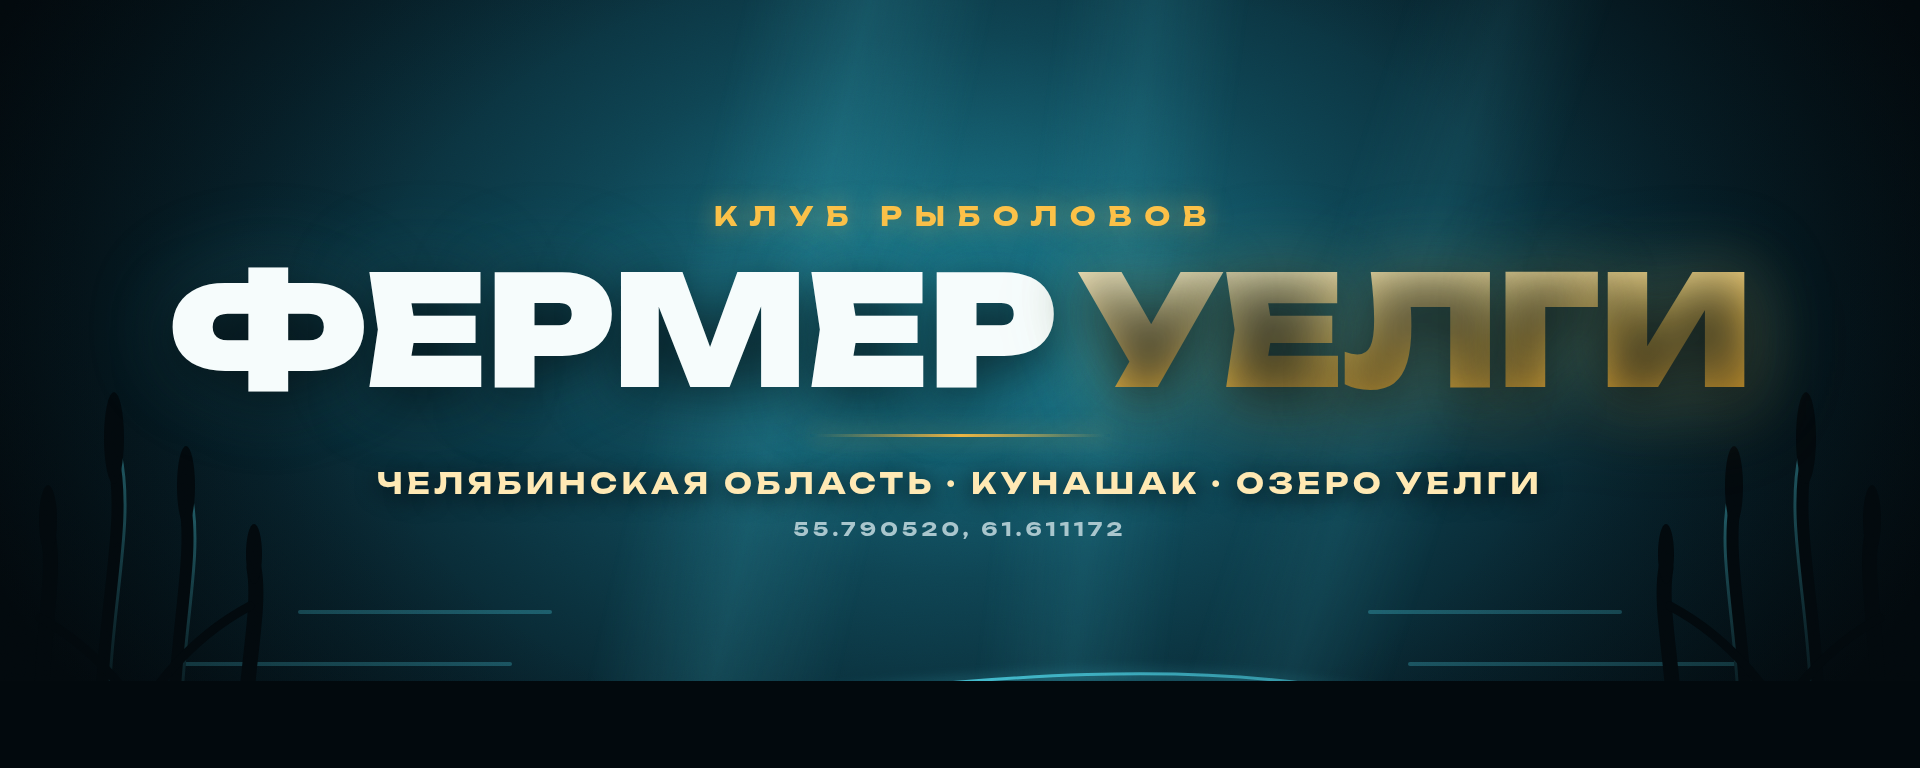
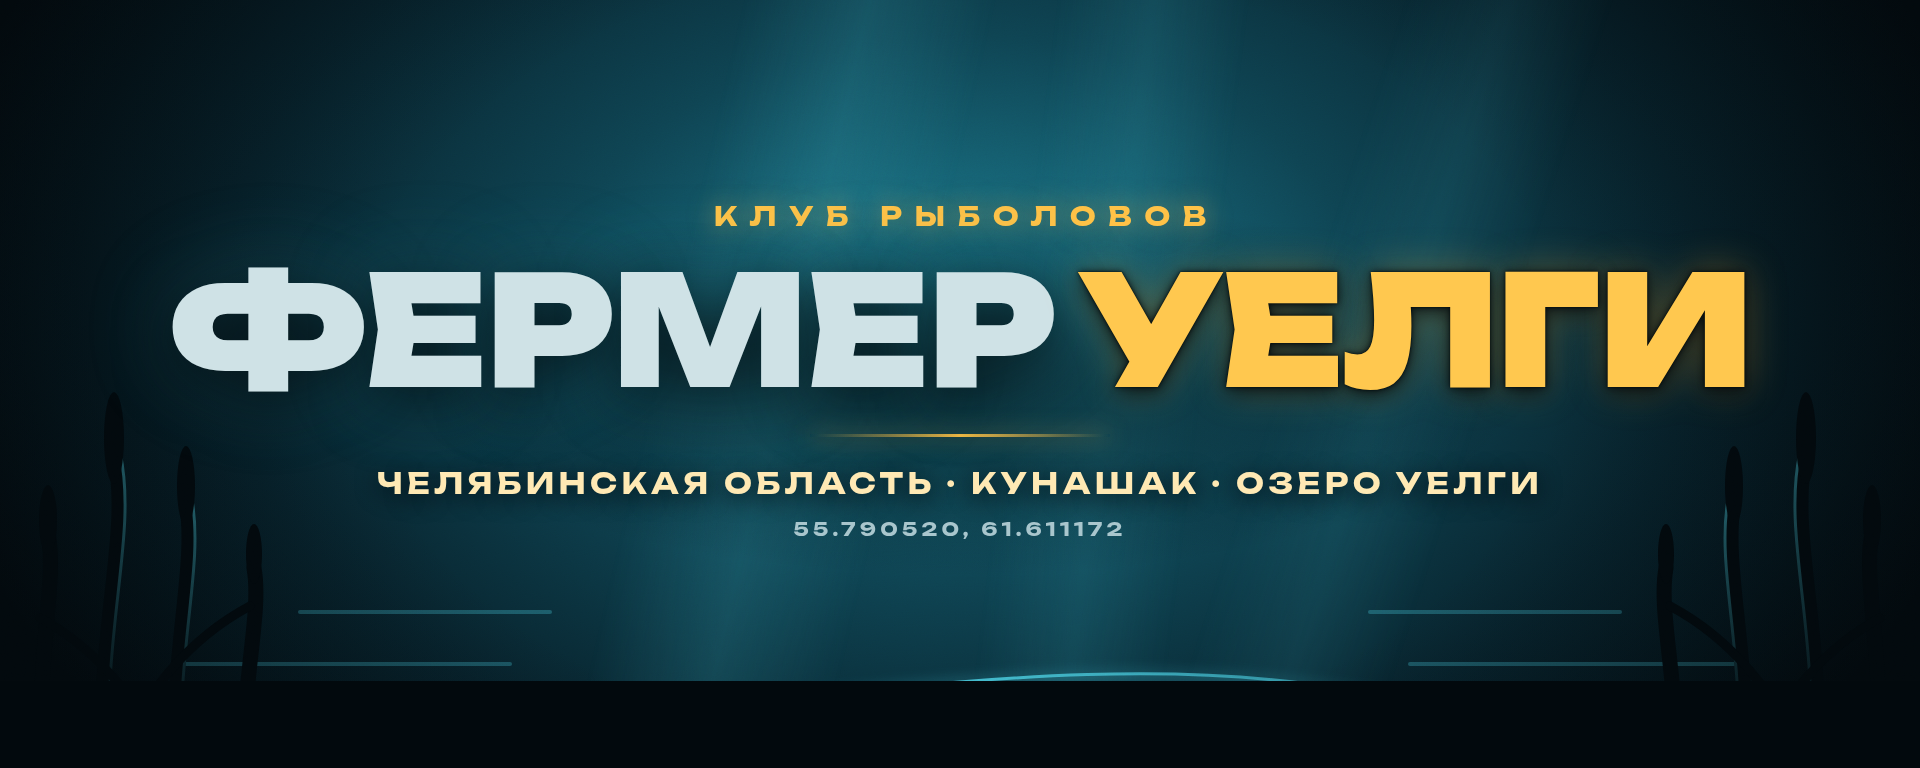
Make the gold word the loudest thing on the cover
УЕЛГИ was losing to ФЕРМЕР: white at that weight beats gold on its own,
and the background's glow sat directly behind the gold, taking what
contrast was left.

Three changes. The glow now has a soft shadow under the words only, so
the light stays at the edges of the frame where it belongs. ФЕРМЕР cools
and quietens a shade, which lets the eye travel to the gold rather than
stopping at the white. And the gold is flat, not graduated — a gradient
plus the dark halo needed to separate it from the water muddied the foot
of every letter, while one bright gold with a thin dark edge carries.

Claude-Session: https://claude.ai/code/session_01XxnUgjjkQ5YGgd5YSR4L4U

Changed region(s): [[0.0625, 0.3438, 0.9062, 0.6562]]

diff --git a/branding/cover-vivid.html b/branding/cover-vivid.html
@@ -21,7 +21,7 @@
     --gold:      #ffc247;
     --gold-hi:   #ffe9b4;
     --gold-deep: #e39a1e;
-    --text:   #f6fcfc;
+    --text:   #cfe2e6;
     --muted:  #a9c6cd;
   }
   * { margin: 0; padding: 0; box-sizing: border-box; }
@@ -42,6 +42,13 @@
       linear-gradient(97deg,  transparent 52%, rgba(70,194,212,.12) 56%, transparent 60%),
       linear-gradient(108deg, transparent 62%, rgba(70,194,212,.10) 66%, transparent 70%);
     filter: blur(2px);
+  }
+  /* the glow sits right where the name does, which is what was eating
+     the gold; this puts a soft shadow under the words only */
+  .textbed {
+    position: absolute; left: 50%; top: 50%; transform: translate(-50%, -50%);
+    width: 1500px; height: 460px;
+    background: radial-gradient(52% 58% at 50% 50%, rgba(2,9,13,.62), transparent 72%);
   }
   .vignette {
     position: absolute; inset: 0;
@@ -71,10 +78,14 @@
   }
   /* the gold word is a gradient, not a flat fill — it catches light like
      the metal it is named after */
+  /* Flat, not graduated. At this size a gradient plus a dark halo muddied
+     the foot of every letter; one bright gold with a thin dark edge to
+     lift it off the water reads far harder. */
   h1 .gold {
-    background: linear-gradient(174deg, #fff2d0 2%, var(--gold-hi) 22%, var(--gold) 58%, var(--gold-deep) 96%);
-    -webkit-background-clip: text; background-clip: text; color: transparent;
-    filter: drop-shadow(0 8px 30px rgba(255,194,71,.28));
+    color: #ffc84f;
+    text-shadow:
+      0 0 2px rgba(2,9,13,.95), 0 0 6px rgba(2,9,13,.8),
+      0 6px 20px rgba(2,9,13,.8), 0 0 40px rgba(255,190,64,.35);
   }
   .rule {
     width: 300px; height: 3px; margin: 34px auto 28px;
@@ -160,6 +171,7 @@
   </g>
 </svg>
 
+<div class="textbed"></div>
 <div class="vignette"></div>
 <div class="grain"></div>
 
